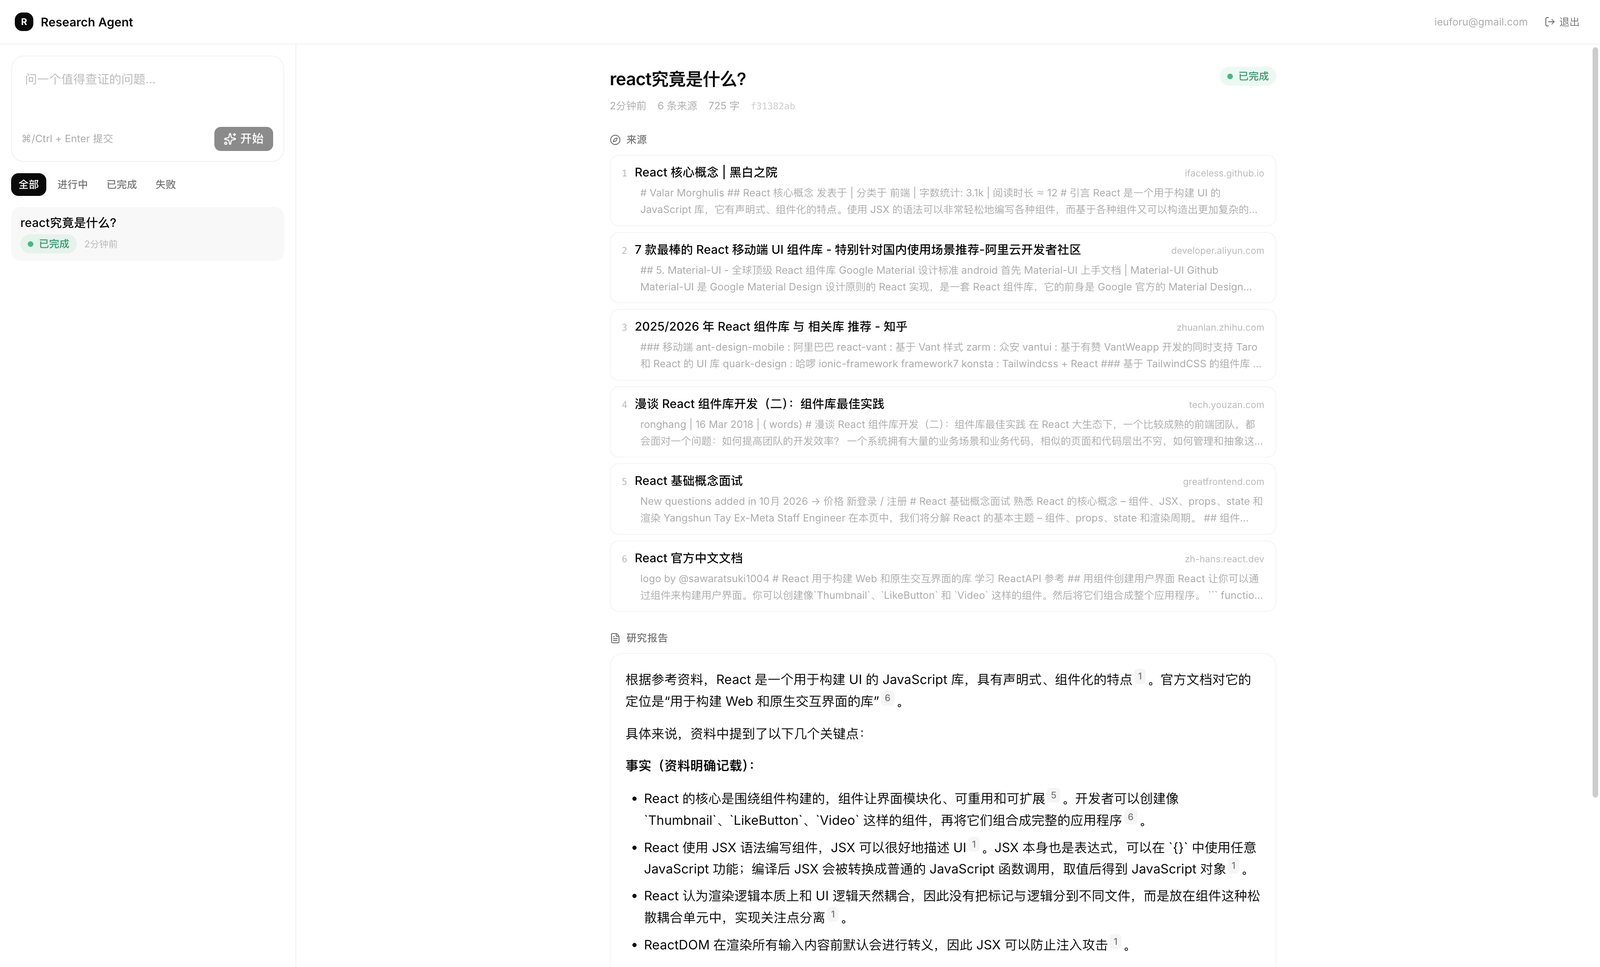
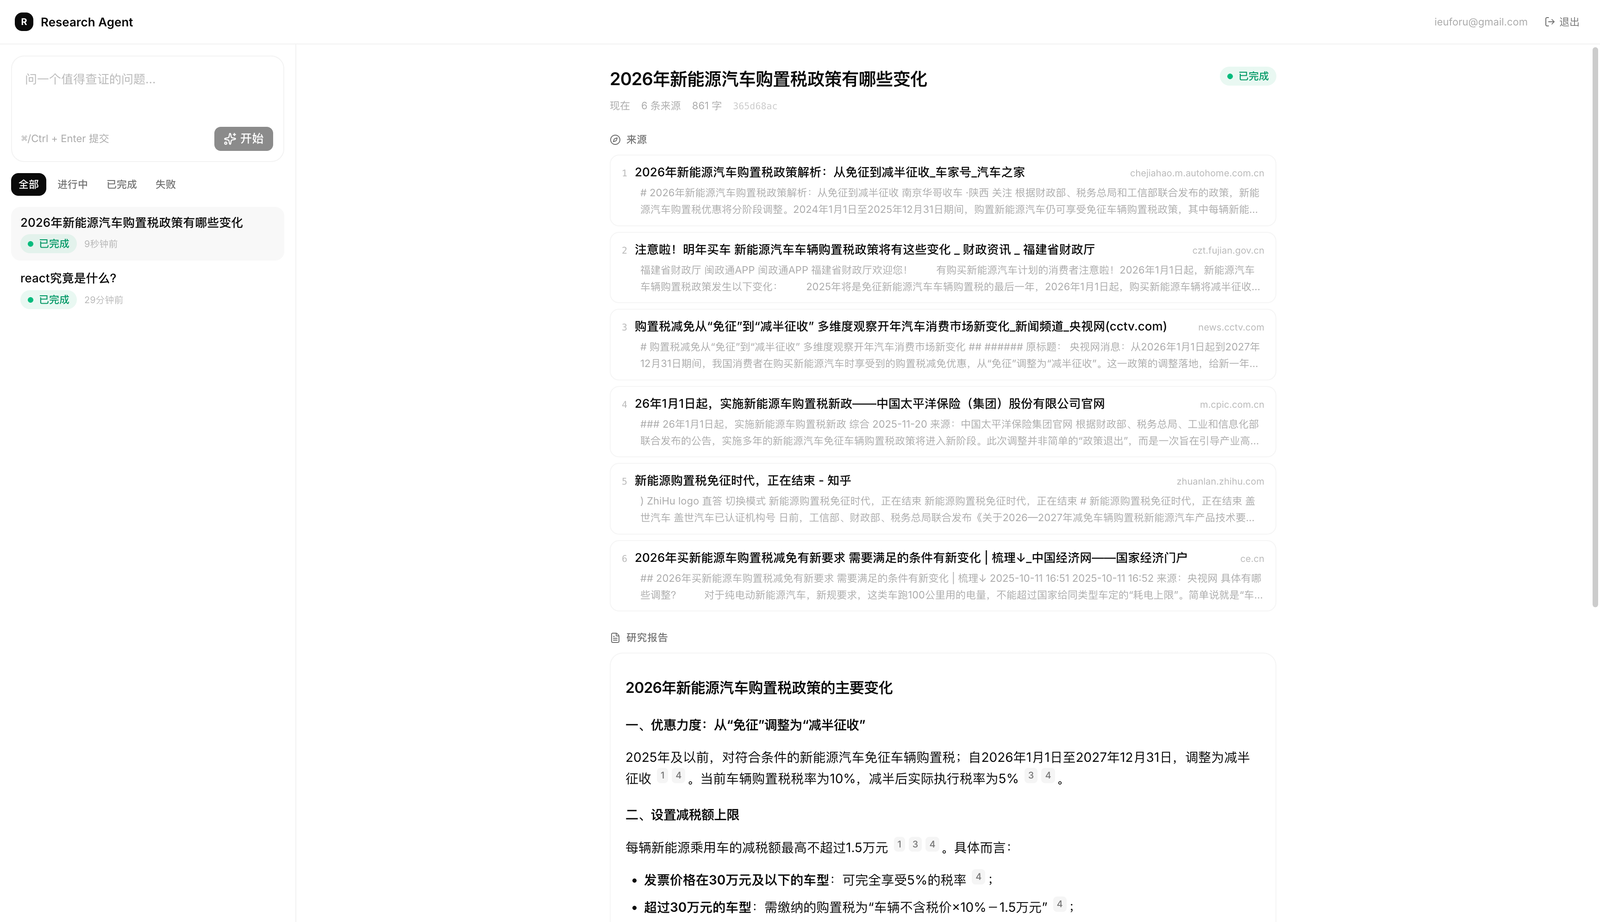
docs: swap the preview for a retrieval-dependent question
The previous screenshot asked what React is — a question search adds nothing to,
which made the retrieval layer look decorative. The new one asks about 2026 EV
purchase-tax changes: it has a time anchor, and its six sources span a provincial
finance department, CCTV, a state economic portal and an automotive site, so the
citations are visibly doing work.

Alt text now describes the content instead of restating the heading.

diff --git a/README.md b/README.md
@@ -5,7 +5,7 @@
 A small research workbench: submit a question, the backend plans search queries,
 retrieves sources, and streams a cited report back to the browser.
 
-<img src="docs/preview.png" alt="The workbench: a question in the sidebar task list, six retrieved sources ranked by relevance, and a report whose superscript numbers link to those sources" width="880" />
+<img src="docs/preview.png" alt="A question about 2026 EV purchase-tax changes in the sidebar, six retrieved sources (including a government site) with relevance-ranked snippets, and a report whose superscript numbers link back to those sources" width="880" />
 
 Built primarily as a **learning vehicle for the stack** (pnpm monorepo, TanStack
 Router/Query, Fastify 5, Drizzle, Postgres, SSE streaming), not as a product.
